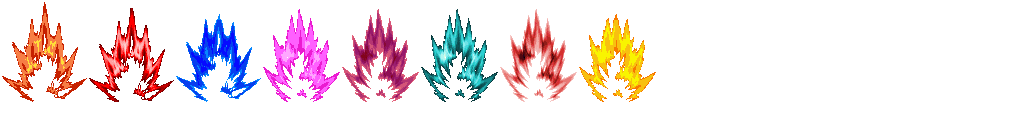
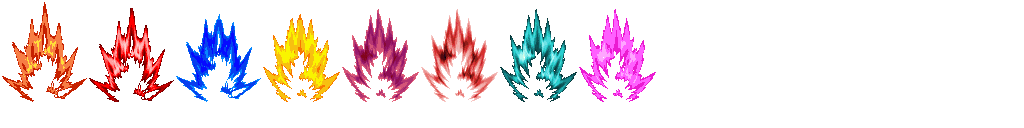
add new engimon skillitem and skill (ifrit), refactor Aura

Changed region(s): [[0.4062, 0.125, 0.6562, 0.7812], [0.25, 0.125, 0.3438, 0.7812]]

diff --git a/core/src/com/ungabunga/model/utilities/ResourceProvider.java b/core/src/com/ungabunga/model/utilities/ResourceProvider.java
@@ -54,6 +54,7 @@ public class ResourceProvider {
     AnimationSet voltorbAnimationSet;
     AnimationSet wartotleAnimationSet;
     AnimationSet vulpixAnimationSet;
+    AnimationSet ifritAnimationSet;
 
     public ResourceProvider(){
         this.assetManager = new AssetManager();
@@ -88,6 +89,7 @@ public class ResourceProvider {
        assetManager.load("pic/engimon_packed/voltorb.atlas", TextureAtlas.class);
        assetManager.load("pic/engimon_packed/vulpix.atlas", TextureAtlas.class);
        assetManager.load("pic/engimon_packed/wartotle.atlas", TextureAtlas.class);
+        assetManager.load("pic/engimon_packed/ifrit.atlas", TextureAtlas.class);
        assetManager.load("pic/packed/skillLogo.atlas", TextureAtlas.class);
         assetManager.load("pic/packed/skillItemLogo.atlas", TextureAtlas.class);
         assetManager.load("pic/packed/aura.atlas", TextureAtlas.class);
@@ -406,6 +408,17 @@ public class ResourceProvider {
                atlas.findRegion("vulpix_standing_east")
        );
 
+        atlas = assetManager.get("pic/engimon_packed/ifrit.atlas", TextureAtlas.class);
+        ifritAnimationSet = new AnimationSet(
+                new Animation<TextureRegion>(ANIM_TIMER/3f, atlas.findRegions("ifrit_walking_south"), Animation.PlayMode.LOOP_PINGPONG),
+                new Animation<TextureRegion>(ANIM_TIMER/3f, atlas.findRegions("ifrit_walking_north"),Animation.PlayMode.LOOP_PINGPONG),
+                new Animation<TextureRegion>(ANIM_TIMER/3f, atlas.findRegions("ifrit_walking_west"),Animation.PlayMode.LOOP_PINGPONG),
+                new Animation<TextureRegion>(ANIM_TIMER/3f, atlas.findRegions("ifrit_walking_east"),Animation.PlayMode.LOOP_PINGPONG),
+                atlas.findRegion("ifrit_standing_south"),
+                atlas.findRegion("ifrit_standing_north"),
+                atlas.findRegion("ifrit_standing_west"),
+                atlas.findRegion("ifrit_standing_east")
+        );
 
         this.skills = fileUtil.readSkillCSV();
         this.engimon = fileUtil.readEngimonCSV(this);
@@ -616,6 +629,12 @@ public class ResourceProvider {
             }else {
                 return vulpixAnimationSet.getWalking(engimon.getDirection()).getKeyFrame(engimon.getKeyFrame());
             }
+        } else if (engimon.getEngimonSpecies().equals("Ifrit")){
+            if (engimon.getState().equals(AVATAR_STATE.STANDING)) {
+                return ifritAnimationSet.getStanding(engimon.getDirection());
+            }else {
+                return ifritAnimationSet.getWalking(engimon.getDirection()).getKeyFrame(engimon.getKeyFrame());
+            }
         }
         return arcanineAnimationSet.getStanding(engimon.getDirection());
     }
@@ -699,6 +718,9 @@ public class ResourceProvider {
         if (engimon.getSpecies().equals("Vulpix")) {
             return vulpixAnimationSet.getStanding(DIRECTION.DOWN);
         }
+        if (engimon.getSpecies().equals("Ifrit")) {
+            return ifritAnimationSet.getStanding(DIRECTION.DOWN);
+        }
 
         return arcanineAnimationSet.getStanding(DIRECTION.DOWN);
     }
@@ -716,86 +738,89 @@ public class ResourceProvider {
     public TextureRegion getSpriteAura(LivingEngimon engimon){
         TextureAtlas atlas = assetManager.get("pic/packed/aura.atlas", TextureAtlas.class);
         if (engimon.getEngimonSpecies().equals("Arcanine")) {
-            return atlas.findRegion("5");
+            return atlas.findRegion("Fire");
         }
         if (engimon.getEngimonSpecies().equals("Blastoise")) {
-            return atlas.findRegion("1");
+            return atlas.findRegion("Water-ground");
         }
         if (engimon.getEngimonSpecies().equals("Charmander")) {
-            return atlas.findRegion("2");
+            return atlas.findRegion("Fire-electric");
         }
         if (engimon.getEngimonSpecies().equals("Cubchoo")) {
-            return atlas.findRegion("7");
+            return atlas.findRegion("Ice");
         }
         if (engimon.getEngimonSpecies().equals("Cubone")) {
-            return atlas.findRegion("4");
+            return atlas.findRegion("Ground");
         }
         if (engimon.getEngimonSpecies().equals("Diglett")) {
-            return atlas.findRegion("4");
+            return atlas.findRegion("Ground");
         }
         if (engimon.getEngimonSpecies().equals("Dugtrio")) {
-            return atlas.findRegion("4");
+            return atlas.findRegion("Ground");
         }
         if (engimon.getEngimonSpecies().equals("Glaceon")) {
-            return atlas.findRegion("7");
+            return atlas.findRegion("Ice");
         }
         if (engimon.getEngimonSpecies().equals("Glalie")) {
-            return atlas.findRegion("7");
+            return atlas.findRegion("Ice");
         }
         if (engimon.getEngimonSpecies().equals("Growlithe")) {
-            return atlas.findRegion("5");
+            return atlas.findRegion("Fire");
         }
         if (engimon.getEngimonSpecies().equals("Magmar")) {
-            return atlas.findRegion("5");
+            return atlas.findRegion("Fire");
         }
         if (engimon.getEngimonSpecies().equals("Mareep")) {
-            return atlas.findRegion("3");
+            return atlas.findRegion("Electric");
         }
         if (engimon.getEngimonSpecies().equals("Ninetales")) {
-            return atlas.findRegion("2");
+            return atlas.findRegion("Fire-electric");
         }
         if (engimon.getEngimonSpecies().equals("Pikachu")) {
-            return atlas.findRegion("3");
+            return atlas.findRegion("Electric");
         }
         if (engimon.getEngimonSpecies().equals("Poliwag")) {
-            return atlas.findRegion("0");
+            return atlas.findRegion("Water-ice");
         }
         if (engimon.getEngimonSpecies().equals("Ponyta")) {
-            return atlas.findRegion("5");
+            return atlas.findRegion("Fire");
         }
         if (engimon.getEngimonSpecies().equals("Psyduck")) {
-            return atlas.findRegion("1");
+            return atlas.findRegion("Water-ground");
         }
         if (engimon.getEngimonSpecies().equals("Raichu")) {
-            return atlas.findRegion("3");
+            return atlas.findRegion("Electric");
         }
         if (engimon.getEngimonSpecies().equals("Sandshrew")) {
-            return atlas.findRegion("4");
+            return atlas.findRegion("Ground");
         }
         if (engimon.getEngimonSpecies().equals("Shark")) {
-            return atlas.findRegion("0");
+            return atlas.findRegion("Water-ice");
         }
         if (engimon.getEngimonSpecies().equals("Snorunt")) {
-            return atlas.findRegion("7");
+            return atlas.findRegion("Ice");
         }
         if (engimon.getEngimonSpecies().equals("Squirtle")) {
-            return atlas.findRegion("1");
+            return atlas.findRegion("Water-ground");
         }
         if (engimon.getEngimonSpecies().equals("Tongkol")) {
-            return atlas.findRegion("6");
+            return atlas.findRegion("Water");
         }
 
         if (engimon.getEngimonSpecies().equals("Voltorb")) {
-            return atlas.findRegion("3");
+            return atlas.findRegion("Electric");
         }
         if (engimon.getEngimonSpecies().equals("Wartotle")) {
-            return atlas.findRegion("6");
+            return atlas.findRegion("Water");
         }
         if (engimon.getEngimonSpecies().equals("Vulpix")) {
-            return atlas.findRegion("5");
+            return atlas.findRegion("Fire");
+        }
+        if (engimon.getEngimonSpecies().equals("Ifrit")) {
+            return atlas.findRegion("Fire");
         }
 
-        return atlas.findRegion("0");
+        return atlas.findRegion("Water-ice");
     }
     public boolean isCompatible(List<IElements> elementsList, CellType biome){
         for(IElements element : elementsList){
